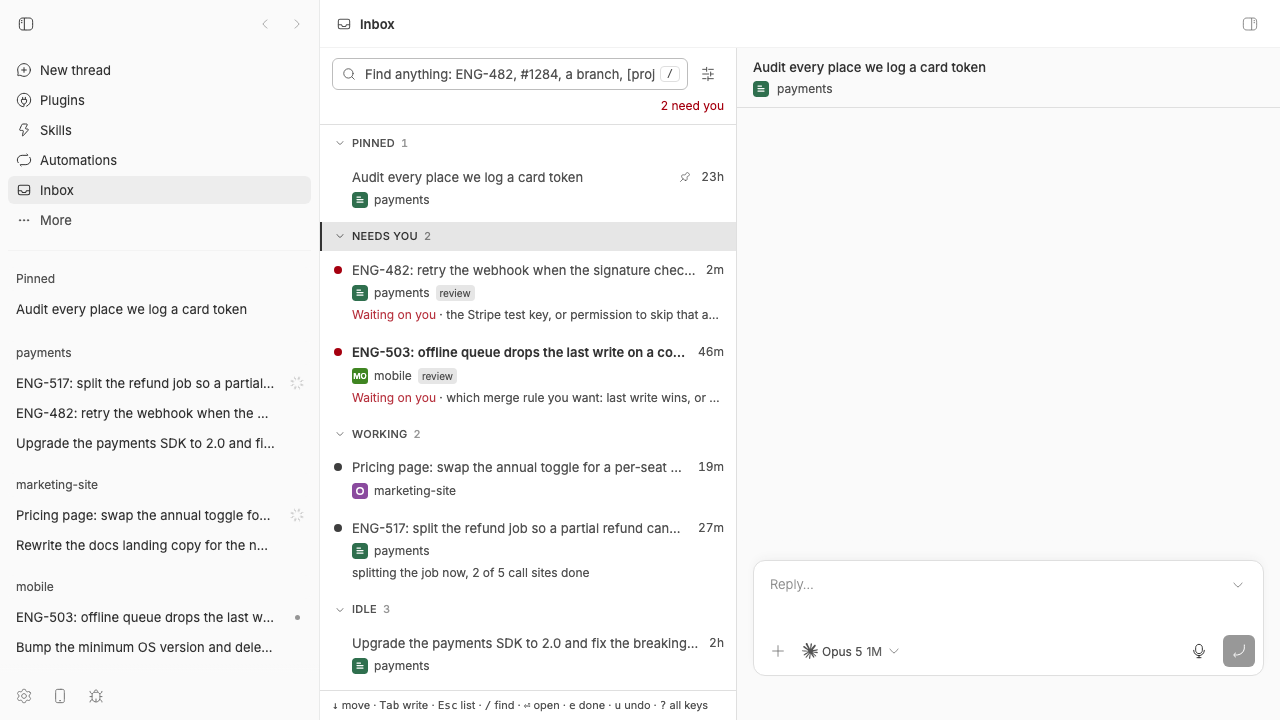
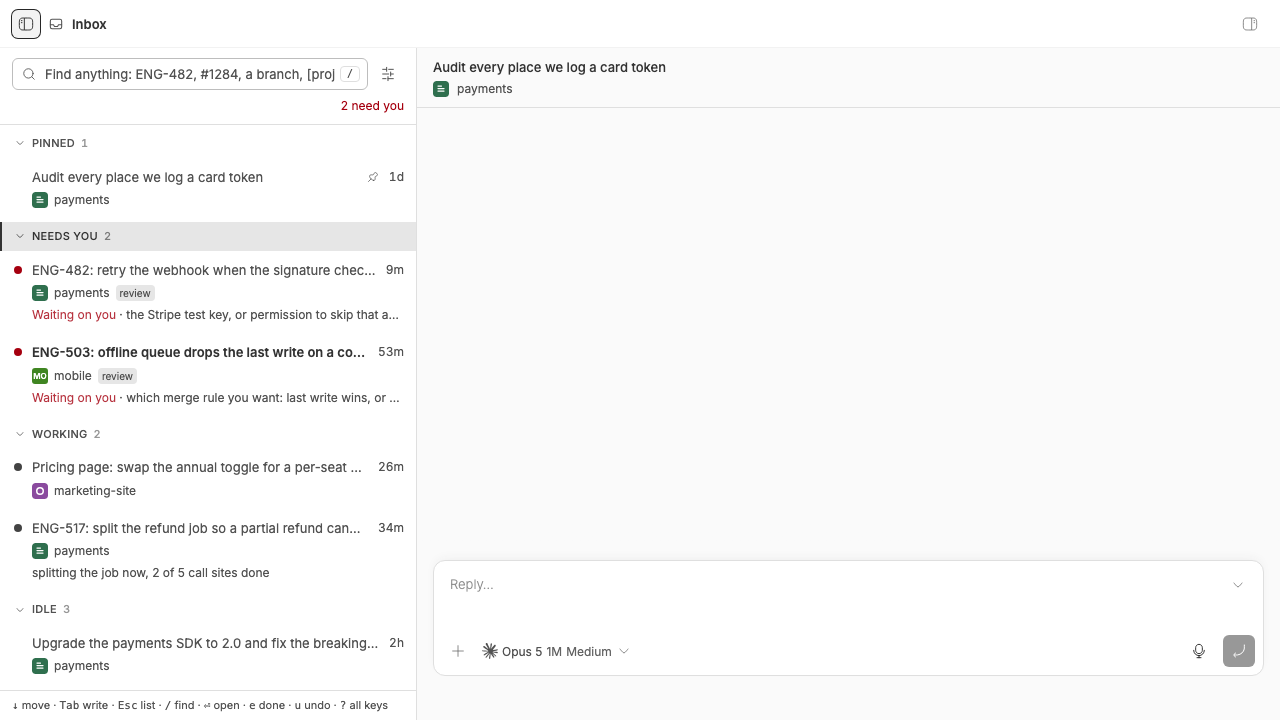
Retake the screenshots with the bb sidebar collapsed
The sidebar lists threads too, so every shot had two thread lists side by side,
which reads as a bug rather than a feature. Also reconnected the demo host
daemon first, so the composer shows a model instead of "Failed to load models".

diff --git a/docs/screenshots/README.md b/docs/screenshots/README.md
@@ -12,6 +12,9 @@ BB_DATA_DIR=/tmp/bb-shot/data BB_SERVER_PORT=38999 BB_HOST_DAEMON_PORT=38998 \
 The bundled `better-sqlite3` is built for Electron's ABI, so a plain Node
 process needs its own build of that one module. Everything else runs as is.
 
+The bb sidebar is collapsed in all three (⌘\\), since it lists threads too and
+two thread lists side by side reads as a bug rather than a feature.
+
 | File | Shows |
 | --- | --- |
 | `inbox.png` | The list, all four states, with a thread selected. |
